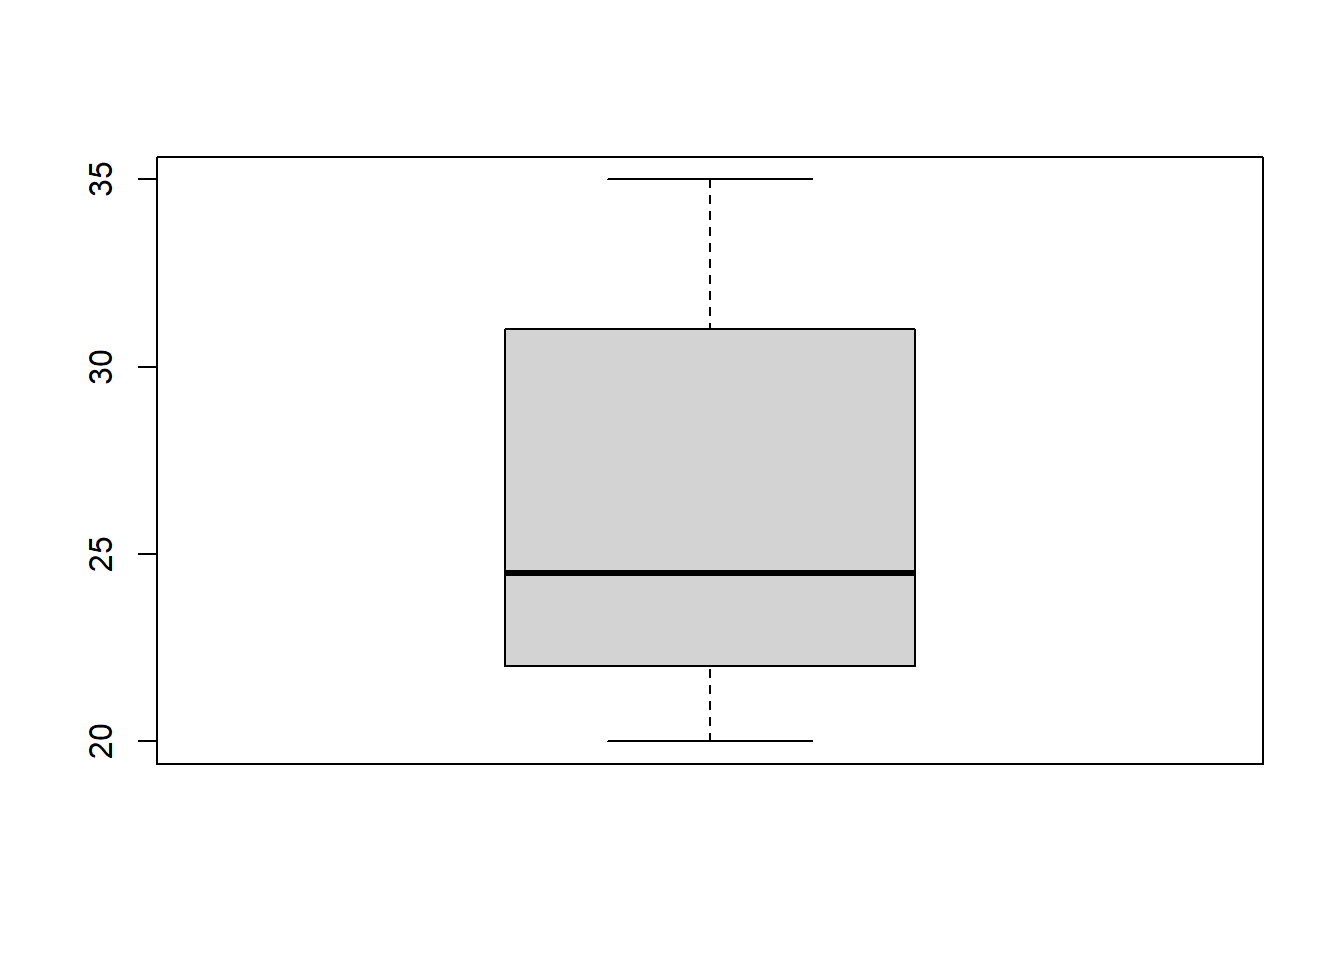
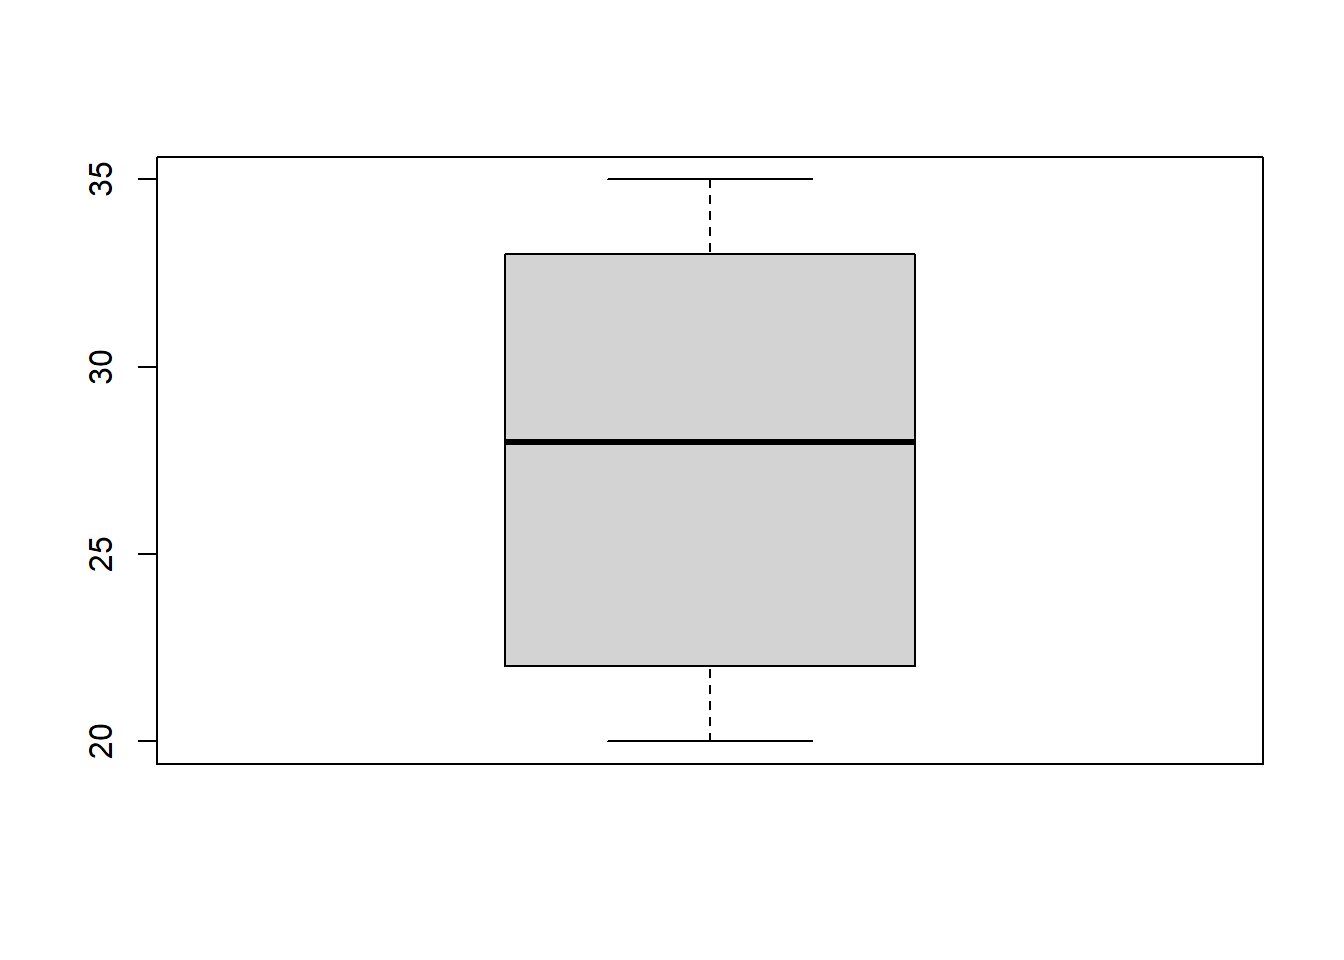
Uno

Changed region(s): [[0.375, 0.25, 0.6875, 0.3438], [0.375, 0.5938, 0.6875, 0.625], [0.375, 0.4375, 0.6875, 0.4688]]

diff --git a/docs/Clase0.html b/docs/Clase0.html
@@ -139,7 +139,12 @@ window.Quarto = {
 </header>
 
 
-<p>Este clase está diseñado para enseñarte los comandos básicos en R, incluyendo la creación de variables, tablas y el ingreso y análisis de bases de datos. Además, aprenderás a explorar y analizar tus datos de manera efectiva. Con el tiempo, podrás utilizar estas habilidades básicas de R para realizar análisis más complejos y obtener resultados valiosos de tus datos.</p>
+<section id="introduccion" class="level2">
+<h2 class="anchored" data-anchor-id="introduccion">Introduccion</h2>
+<p>Basado en el Articulo <a href="https://doi.org/10.1093/jpe/rtaf010">“A comprehensive analysis of R’s application in ecological research from 2008 to 2023”</a>, el uso del programa R en Ecología ha aumentado de un 10.3% en 2008 a 66.9% en 2023. Doce paquetes han sido especialmente relevantes: ‘lme4’, ‘vegan’, ‘nlme’, ‘MuMIn’, ‘ape’, ‘ggplot2’, ‘car’, ‘mgcv’, ‘MASS’, ‘raster’, ‘multcomp’ y ‘lmerTest’. Otro artículo con la misma temática ha reportado resultados similares: <a href="https://doi.org/10.1002/ecs2.2567">“Evaluating the popularity of R in ecology”</a>. En este curso aprenderemos a utilizar la mayoría de estos paquetes, ya que son muy importantes, y además incorporaremos otros como DHARMa, performance y landscapemetrics. También abordaremos paquetes más aplicados a modelos para abundancia y ocupación: <a href="https://www.jstatsoft.org/article/view/v043i10">unmarked</a>, <a href="https://doi.org/10.1111/2041-210X.13897">spOcupancy</a>, <a href="https://doi.org/10.1111/2041-210X.14332">SpAbundance</a>, <a href="https://doi.org/10.1111/2041-210X.13777">ubms</a></p>
+<p>El uso de R ha permitido que las personas se enfoquen más en aprender a programar y en la interpretación de los modelos, en lugar de preocuparse por licencias de software; al ser R un programa libre y de código abierto, esto ha facilitado un crecimiento casi lineal en su adopción en ecología.</p>
+<p>Con el desarrollo de las inteligencias artificiales, algunas personas podrían pensar que el uso de R se volverá más sencillo; sin embargo, en ecología lo realmente importante sigue siendo la selección adecuada de los modelos y la correcta interpretación de los resultados (<a href="https://doi.org/10.1093/biosci/biaf169">Spillias et al 2025</a>) (otro ejemplo, <a href="https://doi.org/10.1016/j.landurbplan.2026.105615">Generative artificial intelligence use in automated urban ecological assessments requires substantial human oversight</a>). Además, las inteligencias artificiales no suelen resolver códigos que no se encuentran en las bases de datos utilizadas para su entrenamiento, por lo que análisis muy específicos y complejos escapan a su conocimiento. Por ejemplo, los análisis de supervivencia en <a href="https://bookdown.org/kevin_davisross/bayesian-reasoning-and-methods/introduction-to-jags.html">JAGS</a> que incluyen variables de detección dentro de un enfoque bayesiano son demasiado complejos, y solo con la ayuda de profesionales se puede garantizar la calidad del análisis y la correcta interpretación de los resultados.</p>
+<p>Esta clase está diseñada para enseñar los comandos básicos en R, incluyendo la creación de variables, tablas, y el ingreso y análisis de bases de datos. Además, permite explorar y analizar los datos de manera efectiva. Con el tiempo, las habilidades adquiridas en R podrán aplicarse para realizar análisis más complejos y obtener resultados de calidad con la información disponible.</p>
 <div class="tabset-margin-container"></div><div class="panel-tabset">
 <ul class="nav nav-tabs" role="tablist"><li class="nav-item" role="presentation"><a class="nav-link active" id="tabset-1-1-tab" data-bs-toggle="tab" data-bs-target="#tabset-1-1" role="tab" aria-controls="tabset-1-1" aria-selected="true" href="">Instalacion de R y RStudio</a></li><li class="nav-item" role="presentation"><a class="nav-link" id="tabset-1-2-tab" data-bs-toggle="tab" data-bs-target="#tabset-1-2" role="tab" aria-controls="tabset-1-2" aria-selected="false" href="">Operaciones Basicas</a></li><li class="nav-item" role="presentation"><a class="nav-link" id="tabset-1-3-tab" data-bs-toggle="tab" data-bs-target="#tabset-1-3" role="tab" aria-controls="tabset-1-3" aria-selected="false" href="">Cracion de tablas</a></li><li class="nav-item" role="presentation"><a class="nav-link" id="tabset-1-4-tab" data-bs-toggle="tab" data-bs-target="#tabset-1-4" role="tab" aria-controls="tabset-1-4" aria-selected="false" href="">Exploracion de datos</a></li><li class="nav-item" role="presentation"><a class="nav-link" id="tabset-1-5-tab" data-bs-toggle="tab" data-bs-target="#tabset-1-5" role="tab" aria-controls="tabset-1-5" aria-selected="false" href="">Cargar base de datos</a></li><li class="nav-item" role="presentation"><a class="nav-link" id="tabset-1-6-tab" data-bs-toggle="tab" data-bs-target="#tabset-1-6" role="tab" aria-controls="tabset-1-6" aria-selected="false" href="">Estadistica descriptiva</a></li></ul>
 <div class="tab-content">
@@ -279,53 +284,53 @@ window.Quarto = {
 <tbody>
 <tr class="odd">
 <td style="text-align: left;">A</td>
-<td style="text-align: right;">31</td>
-<td style="text-align: right;">8.1391745</td>
+<td style="text-align: right;">35</td>
+<td style="text-align: right;">4.5249000</td>
 </tr>
 <tr class="even">
 <td style="text-align: left;">A</td>
-<td style="text-align: right;">22</td>
-<td style="text-align: right;">4.0317392</td>
+<td style="text-align: right;">30</td>
+<td style="text-align: right;">3.1500909</td>
 </tr>
 <tr class="odd">
 <td style="text-align: left;">C</td>
-<td style="text-align: right;">21</td>
-<td style="text-align: right;">7.5055677</td>
+<td style="text-align: right;">26</td>
+<td style="text-align: right;">-0.4496173</td>
 </tr>
 <tr class="even">
 <td style="text-align: left;">C</td>
 <td style="text-align: right;">33</td>
-<td style="text-align: right;">0.4535167</td>
+<td style="text-align: right;">4.2649570</td>
 </tr>
 <tr class="odd">
 <td style="text-align: left;">A</td>
-<td style="text-align: right;">29</td>
-<td style="text-align: right;">5.4899200</td>
+<td style="text-align: right;">34</td>
+<td style="text-align: right;">6.6290291</td>
 </tr>
 <tr class="even">
 <td style="text-align: left;">B</td>
-<td style="text-align: right;">24</td>
-<td style="text-align: right;">5.3753744</td>
+<td style="text-align: right;">20</td>
+<td style="text-align: right;">2.6220339</td>
 </tr>
 <tr class="odd">
-<td style="text-align: left;">B</td>
-<td style="text-align: right;">35</td>
-<td style="text-align: right;">8.3100432</td>
-</tr>
-<tr class="even">
 <td style="text-align: left;">B</td>
 <td style="text-align: right;">25</td>
-<td style="text-align: right;">6.3003604</td>
+<td style="text-align: right;">3.4231456</td>
+</tr>
+<tr class="even">
+<td style="text-align: left;">B</td>
+<td style="text-align: right;">32</td>
+<td style="text-align: right;">2.1355771</td>
 </tr>
 <tr class="odd">
 <td style="text-align: left;">A</td>
-<td style="text-align: right;">23</td>
-<td style="text-align: right;">9.5365171</td>
+<td style="text-align: right;">22</td>
+<td style="text-align: right;">3.7993838</td>
 </tr>
 <tr class="even">
 <td style="text-align: left;">C</td>
-<td style="text-align: right;">20</td>
-<td style="text-align: right;">7.5766625</td>
+<td style="text-align: right;">21</td>
+<td style="text-align: right;">6.5310460</td>
 </tr>
 </tbody>
 </table>
@@ -338,32 +343,32 @@ window.Quarto = {
 <div class="cell">
 <div class="sourceCode cell-code" id="cb23"><pre class="sourceCode r code-with-copy"><code class="sourceCode r"><span id="cb23-1"><a href="#cb23-1" aria-hidden="true" tabindex="-1"></a><span class="fu">summary</span>(Tabla1)</span></code><button title="Copy to Clipboard" class="code-copy-button"><i class="bi"></i></button></pre></div>
 <div class="cell-output cell-output-stdout">
-<pre><code>    Franja           Temperatura       Riqueza      
- Length:10          Min.   :20.00   Min.   :0.4535  
- Class :character   1st Qu.:22.25   1st Qu.:5.4040  
- Mode  :character   Median :24.50   Median :6.9030  
-                    Mean   :26.30   Mean   :6.2719  
-                    3rd Qu.:30.50   3rd Qu.:7.9985  
-                    Max.   :35.00   Max.   :9.5365  </code></pre>
+<pre><code>    Franja           Temperatura       Riqueza       
+ Length:10          Min.   :20.00   Min.   :-0.4496  
+ Class :character   1st Qu.:22.75   1st Qu.: 2.7540  
+ Mode  :character   Median :28.00   Median : 3.6113  
+                    Mean   :27.80   Mean   : 3.6631  
+                    3rd Qu.:32.75   3rd Qu.: 4.4599  
+                    Max.   :35.00   Max.   : 6.6290  </code></pre>
 </div>
 </div>
 <p>Si nos interesa obtener solo la media podemos utilizar el comando <code>mean()</code>, para la desviación estándar usamos <code>sd()</code>, y para la mediana <code>median()</code>.</p>
 <div class="cell">
 <div class="sourceCode cell-code" id="cb25"><pre class="sourceCode r code-with-copy"><code class="sourceCode r"><span id="cb25-1"><a href="#cb25-1" aria-hidden="true" tabindex="-1"></a><span class="fu">mean</span>(Tabla1<span class="sc">$</span>Temperatura)</span></code><button title="Copy to Clipboard" class="code-copy-button"><i class="bi"></i></button></pre></div>
 <div class="cell-output cell-output-stdout">
-<pre><code>[1] 26.3</code></pre>
+<pre><code>[1] 27.8</code></pre>
 </div>
 </div>
 <div class="cell">
 <div class="sourceCode cell-code" id="cb27"><pre class="sourceCode r code-with-copy"><code class="sourceCode r"><span id="cb27-1"><a href="#cb27-1" aria-hidden="true" tabindex="-1"></a><span class="fu">median</span>(Tabla1<span class="sc">$</span>Temperatura)</span></code><button title="Copy to Clipboard" class="code-copy-button"><i class="bi"></i></button></pre></div>
 <div class="cell-output cell-output-stdout">
-<pre><code>[1] 24.5</code></pre>
+<pre><code>[1] 28</code></pre>
 </div>
 </div>
 <div class="cell">
 <div class="sourceCode cell-code" id="cb29"><pre class="sourceCode r code-with-copy"><code class="sourceCode r"><span id="cb29-1"><a href="#cb29-1" aria-hidden="true" tabindex="-1"></a><span class="fu">sd</span>(Tabla1<span class="sc">$</span>Temperatura)</span></code><button title="Copy to Clipboard" class="code-copy-button"><i class="bi"></i></button></pre></div>
 <div class="cell-output cell-output-stdout">
-<pre><code>[1] 5.313505</code></pre>
+<pre><code>[1] 5.6921</code></pre>
 </div>
 </div>
 <p>Si nos interesa una gráfico exploratorio, podemos usar el comando <code>plot()</code> para una nube de puntos, <code>boxplot()</code> para un gráfico de cajas, y <code>hist()</code> para un histograma.</p>
@@ -444,6 +449,7 @@ window.Quarto = {
 <figcaption>HN Biology Investigation Academy</figcaption>
 </figure>
 </div>
+</section>
 
 </main>
 <!-- /main column -->
